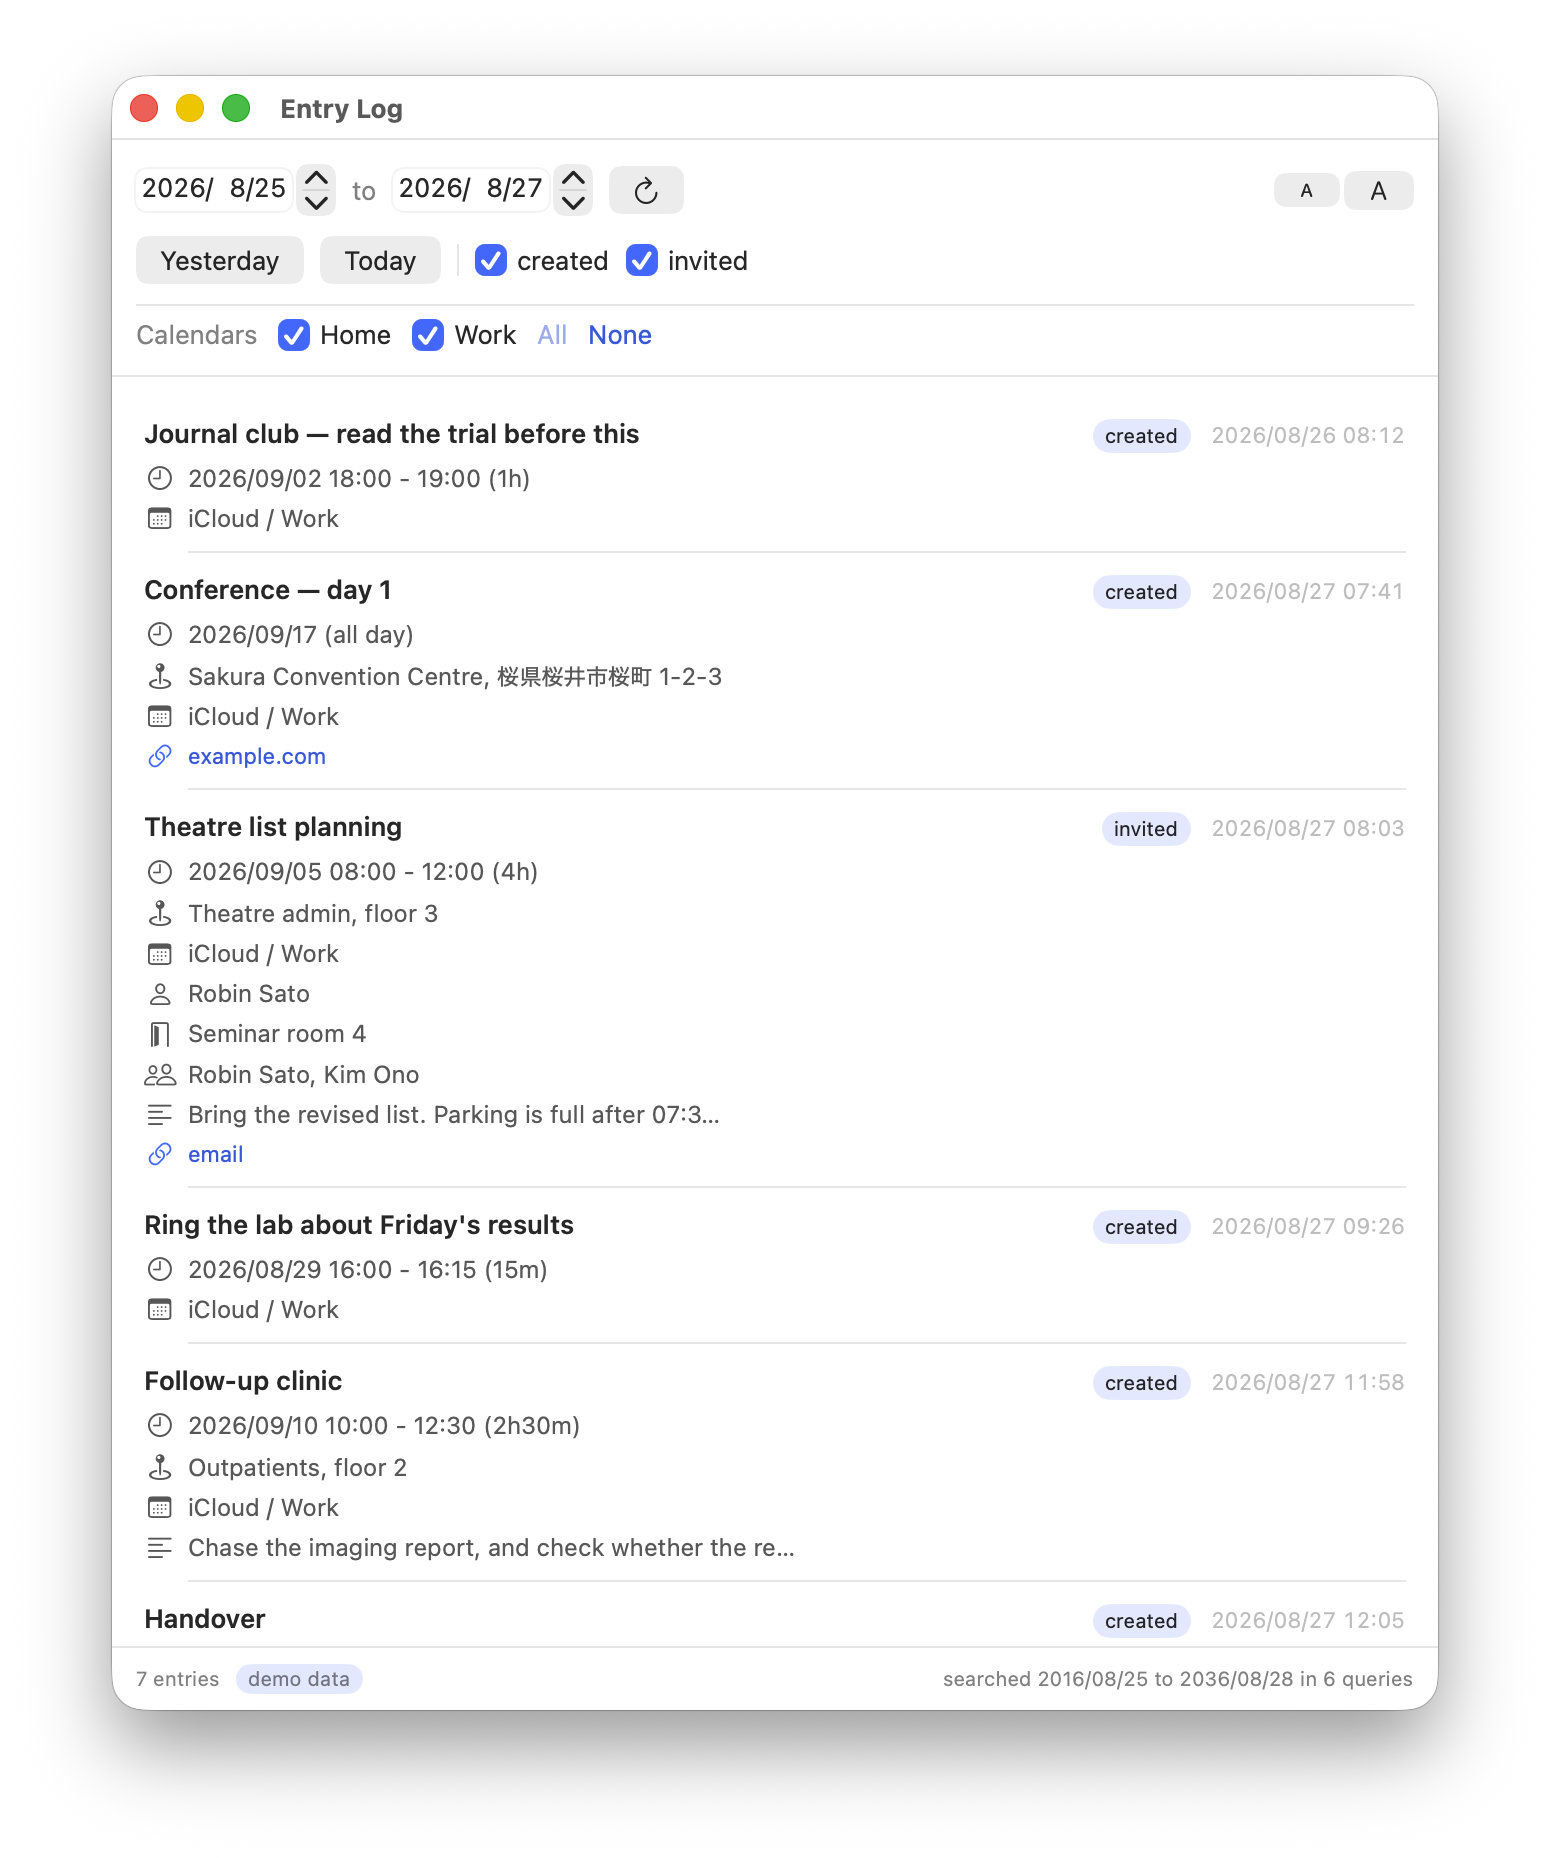
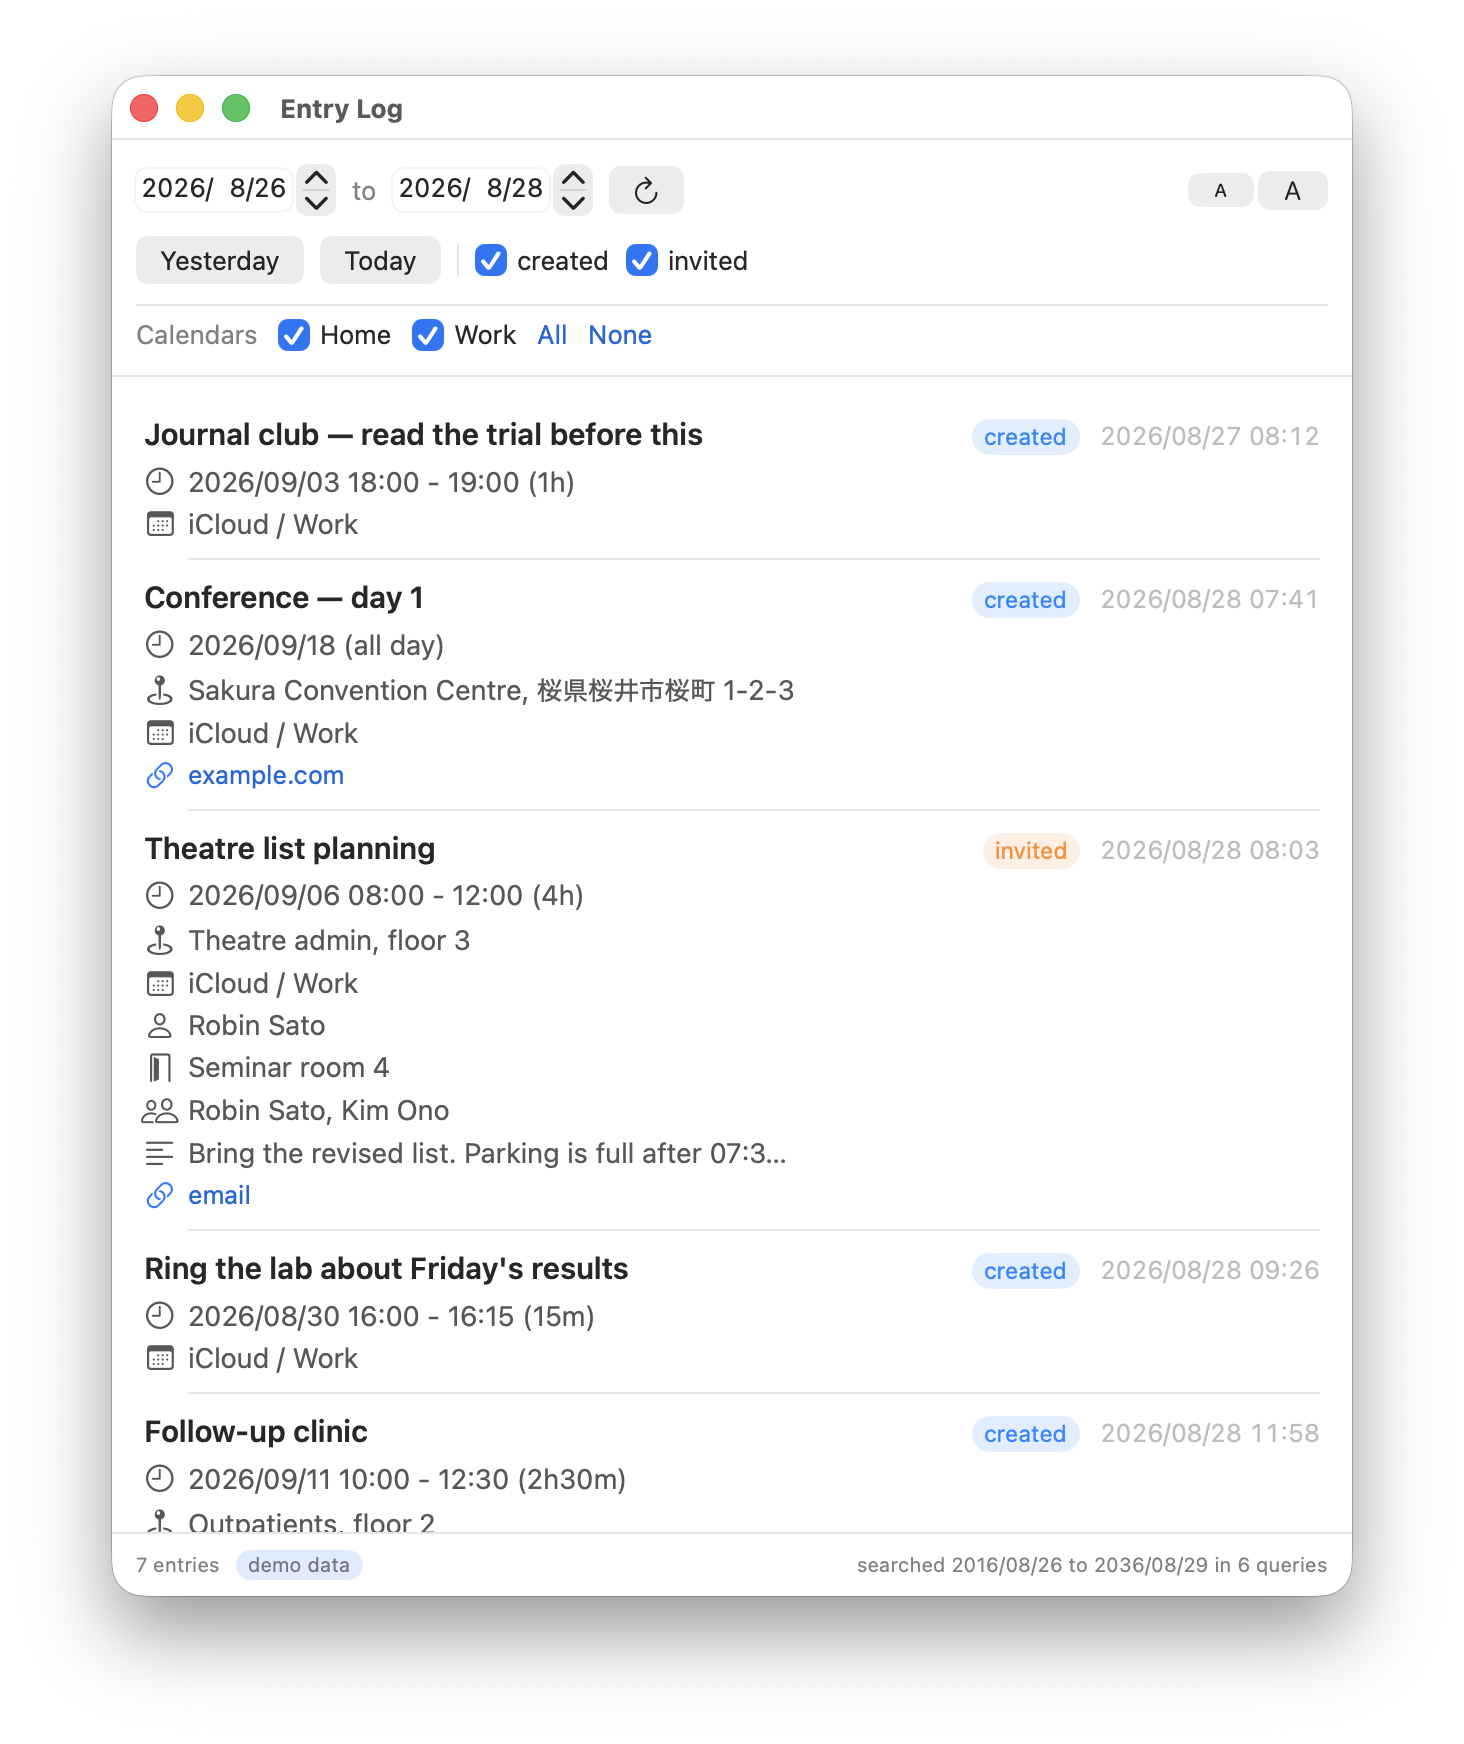
Retake the screenshot, now that the roles have colours

diff --git a/articles/apple-calendar-entry-log-eventkit.md b/articles/apple-calendar-entry-log-eventkit.md
@@ -12,7 +12,7 @@ published: true
 
 同じものが Apple Calendar 側にも欲しくなったので、EventKit で作り直しました。SwiftUI の Mac アプリと、同じ内容を吐くコマンドラインの 2 つです。
 
-![Entry Log のウィンドウ。期間・プリセット・役割・カレンダーの絞り込みと、作成日時順に並んだ予定の一覧](/images/entry-log-demo.png)
+![Entry Log のウィンドウ。期間・プリセット・役割・カレンダーの絞り込みと、作成日時順に並んだ予定の一覧。自分で書いた予定には青い created、招待された予定にはオレンジの invited のバッジが付く](/images/entry-log-demo.png)
 *架空のデータを表示するデモモードのスクリーンショットです。理由は後述します。*
 
 **ソース**: https://github.com/TakahiroGitLab/apple-cal-entry-log （MIT）
